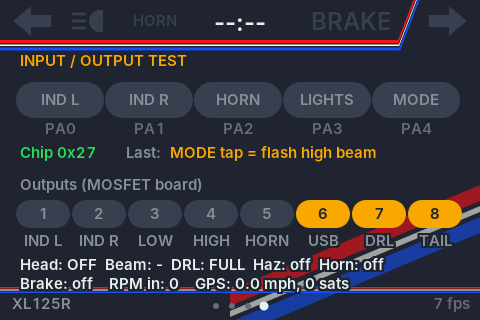
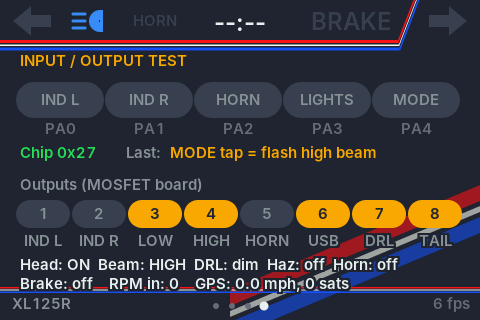
Dash v1: DRL always on with ignition; headlight off at boot, LIGHTS hold 3 s = low beam on/off, tap = high/low; double tap removed
Claude-Session: https://claude.ai/code/session_01EhMcsDqwmw83FR1G3AXd3V

diff --git a/firmware/xl-dash-v1/dash.h b/firmware/xl-dash-v1/dash.h
@@ -279,8 +279,8 @@ struct Ride {
   int gear = 0;
   bool indL = false, indR = false, beam = false, brake = false;
   bool hazard = false, high = false, flash = false, horn = false;
-  bool lightsOn = true;           // headlight on at power-up
-  bool drl = true;                // DRL / sidelight on OUT7 (AUX), on at power-up
+  bool lightsOn = false;          // headlight OFF at power-up (hold LIGHTS to turn on)
+  bool drl = true;                // DRL / sidelight on OUT7, always on with the ignition
   bool out[8] = {};               // what each MOSFET output is doing right now
   uint8_t btn = 0;                // bit n = MCP pin n pressed (raw, live)
   int mcpAddr = -1;               // where the button chip was found, -1 = not found
@@ -499,25 +499,17 @@ static void handleButtons() {
   S.horn = S.btn & (1 << BTN_HORN);                       // straight from the switch, no delay
   uint32_t now = millis();
 
-  // LIGHTS: tap = high / low (or back on, if off), double tap = DRL on / off,
-  // hold LIGHTS_OFF_MS = headlight on / off. A single tap waits DOUBLE_TAP_MS to be sure it isn't a double.
-  static bool lightsDone = false, tapPending = false;
-  static uint32_t firstTapMs = 0;
+  // LIGHTS: hold LIGHTS_OFF_MS = headlight on (low beam) / off. Tap = high / low, only while it's on.
+  // The DRL is always on; writeOutputs() dims it when the headlight is on.
+  static bool lightsDone = false;
   if (pollButton(bLights) == 1) {
-    if (tapPending && now - firstTapMs < DOUBLE_TAP_MS) {
-      tapPending = false; S.drl = !S.drl;
-      logEvent(S.drl ? "LIGHTS double tap = DRL ON" : "LIGHTS double tap = DRL off");
-    } else { tapPending = true; firstTapMs = now; }
-  }
-  if (tapPending && now - firstTapMs >= DOUBLE_TAP_MS) {
-    tapPending = false;
-    if (!S.lightsOn) { S.lightsOn = true; logEvent("LIGHTS tap = headlight back ON"); }
+    if (!S.lightsOn) logEvent("LIGHTS tap: headlight off, hold 3 s");
     else { S.high = !S.high; logEvent(S.high ? "LIGHTS tap = HIGH beam" : "LIGHTS tap = low beam"); }
   }
   if (!bLights.down) lightsDone = false;
   else if (!lightsDone && now - bLights.downMs >= LIGHTS_OFF_MS) {
     S.lightsOn = !S.lightsOn; S.high = false; lightsDone = true;
-    logEvent(S.lightsOn ? "LIGHTS hold 3 s = headlight ON" : "LIGHTS hold 3 s = headlight OFF");
+    logEvent(S.lightsOn ? "LIGHTS hold 3 s = headlight ON (low)" : "LIGHTS hold 3 s = headlight OFF");
   }
 
   // MODE: tap = flash the high beam for PASS_FLASH_MS, hold = next page.

diff --git a/firmware/xl-dash-v1/config.h b/firmware/xl-dash-v1/config.h
@@ -36,9 +36,8 @@
 static const uint32_t HOLD_MS     = 700;   // long press
 static const uint32_t DEBOUNCE_MS = 25;
 static const uint32_t PASS_FLASH_MS = 400;  // MODE tap: how long the high beam flashes
-static const uint32_t LIGHTS_OFF_MS = 3000; // LIGHTS hold this long: headlight on / off
+static const uint32_t LIGHTS_OFF_MS = 3000; // LIGHTS hold this long: headlight on (low) / off
 static const uint32_t TRIP_RESET_MS = 3000; // MODE hold this long on the TRIP page: reset trip A
-static const uint32_t DOUBLE_TAP_MS = 350;  // LIGHTS double tap window (single tap waits this long)
 
 // ---- Outputs: GPIO -> MOSFET board IN1..IN8 (jumpers on H: HIGH = on) ----
 //                               OUT1 OUT2 OUT3 OUT4 OUT5 OUT6 OUT7 OUT8

diff --git a/firmware/xl-dash-v1/README.md b/firmware/xl-dash-v1/README.md
@@ -15,7 +15,7 @@ Arduino IDE: ESP32S3 Dev Module, esp32 core **3.2.0**, USB CDC On Boot Enabled, 
 | --- | --- |
 | IND L / IND R (PA0 / PA1) | tap on/cancel, hold 0.7 s hazards; arrows flash in sync with OUT1/OUT2 |
 | HORN (PA2) | OUT5 + HORN light while pressed |
-| LIGHTS (PA3) | tap high/low (OUT4 / OUT3), double tap = DRL on/off (OUT7: full with headlight off, 20% with it on), hold 3 s = headlight on/off (beam icon: blue high, green low, grey off) |
+| LIGHTS (PA3) | headlight off at power-up; hold 3 s = headlight on (low) / off; tap = high/low (OUT4 / OUT3) while on. DRL (OUT7) always on: full with headlight off, 20% with it on. (beam icon: blue high, green low, grey off) |
 | MODE (PA4) | tap = flash high beam (0.4 s, `PASS_FLASH_MS`), hold = next page; on TRIP page keep holding 3 s = reset trip A |
 | GPS (IO17/18, 9600) | speed (0 below 1.5 mph), odometer + trips saved to flash every 0.1 mi, UK clock (BST auto) |
 | RPM (IO21) | needle, once the pickup is fitted (`SPARKS_PER_REV` is a guess) |
